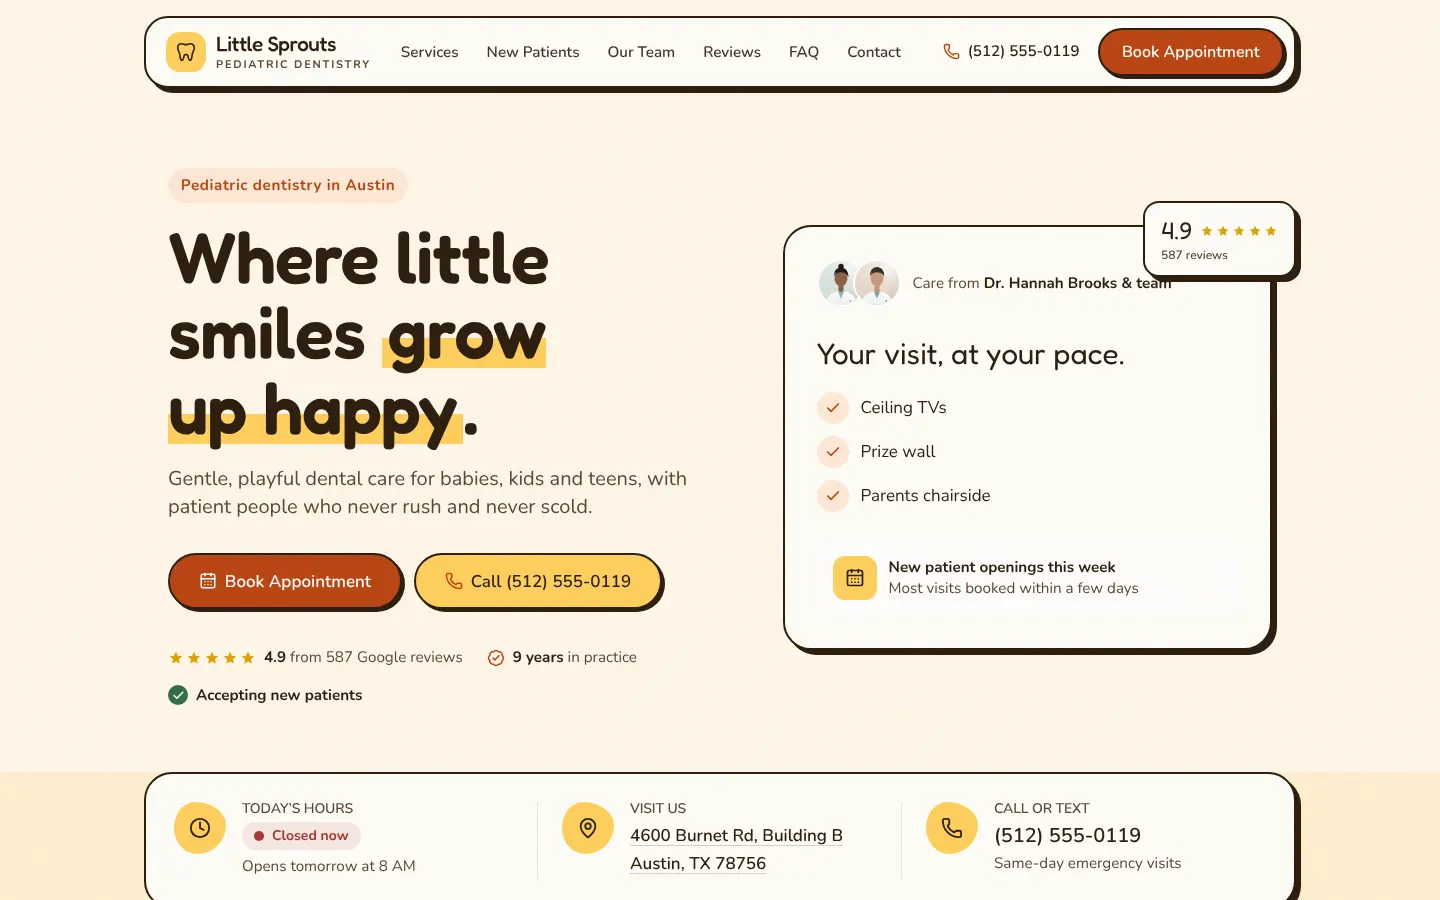
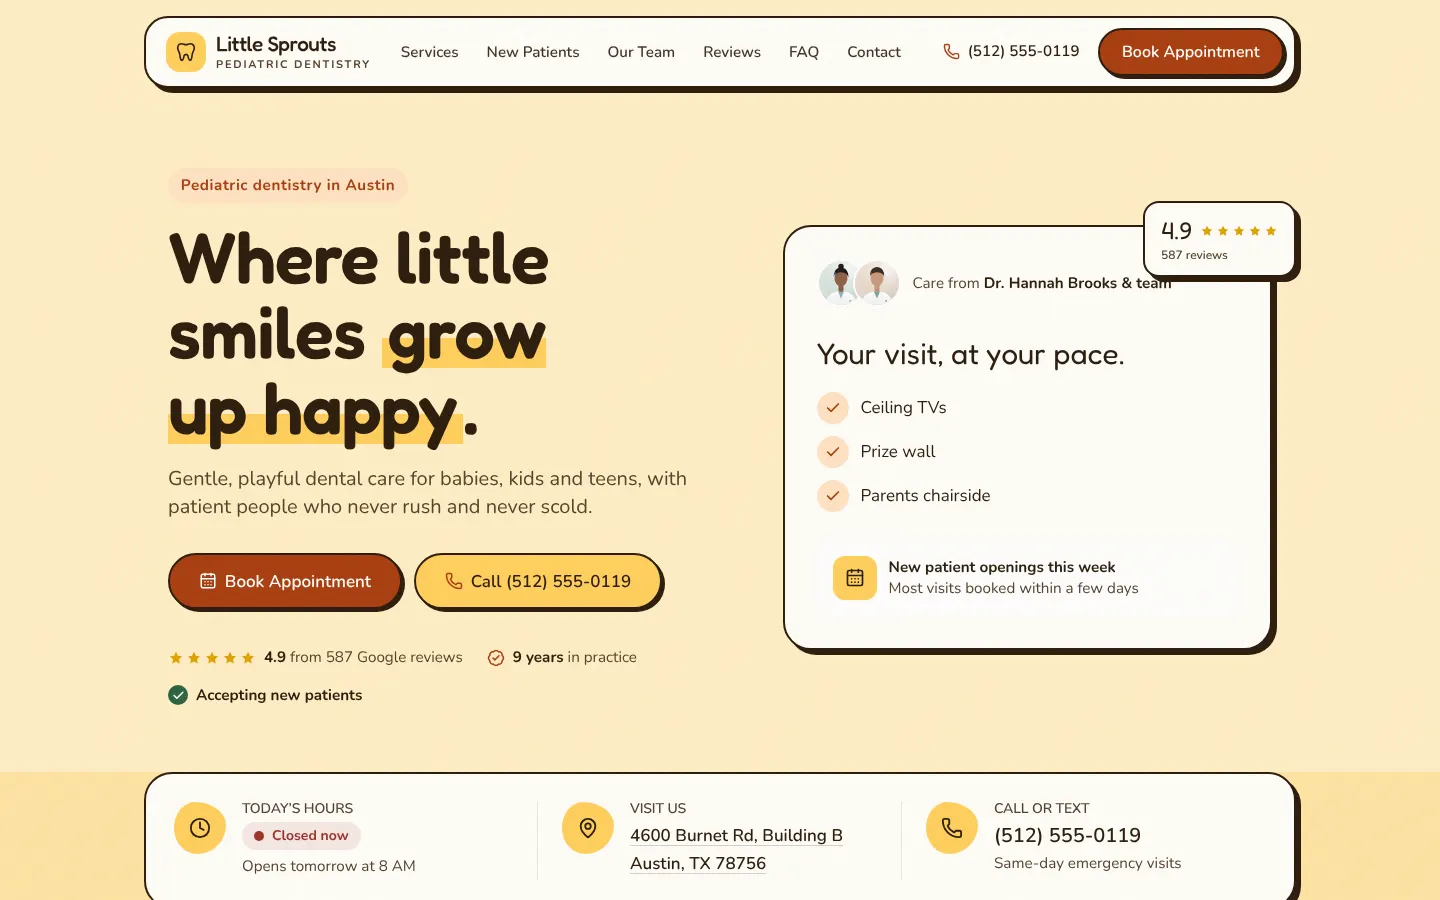
Distinct Honey and Cinnamon backgrounds; business site copy updates
- Honey moves to a deeper golden background; Cinnamon to soft sage
  paper (rust accents and handwriting kept). Both pass the contrast check
- Business site: "looks great on every screen" instead of mobile-first;
  plan lines "A website patients love", "Your website and Google, always
  improving", "Your full growth team"; closing line speaks to the dentist
- Example phones show a still first screen (no scrolling)

Claude-Session: https://claude.ai/code/session_01Dz74CLANB8ZvbaNPtyytFn

diff --git a/business-site/public/index.html b/business-site/public/index.html
@@ -113,13 +113,10 @@
   .browser .bar { display: flex; gap: 6px; padding: 10px 12px; background: var(--sand); border-bottom: 1px solid var(--line); }
   .browser .bar i { width: 10px; height: 10px; border-radius: 99px; background: #d9c9ad; }
   .browser img { display: block; width: 100%; height: auto; aspect-ratio: 16 / 10; }
-  /* Phone: an iPhone laid over the corner; the site strip scrolls inside it. */
+  /* Phone: an iPhone laid over the corner, showing the site's first screen. */
   .example .frame { position: absolute; right: 0; bottom: 0; width: 27%; aspect-ratio: 9 / 19.5; border-radius: 30px; border: 6px solid var(--ink); overflow: hidden; background: var(--ink); box-shadow: 0 30px 50px -25px rgb(43 33 24 / .6); }
   .example .frame::before { content: ""; position: absolute; top: 8px; left: 50%; translate: -50% 0; width: 34%; height: 14px; border-radius: 99px; background: var(--ink); z-index: 2; }
-  .example .frame img { position: absolute; top: 0; left: 0; width: 100%; height: auto; display: block; }
-  .example.playing .frame img { animation: reel 18s ease-in-out infinite alternate; }
-  @keyframes reel { 0%, 6% { transform: translateY(0); } 94%, 100% { transform: translateY(calc(-1 * var(--dist, 0px))); } }
-  @media (prefers-reduced-motion: reduce) { .example.playing .frame img { animation: none; } }
+  .example .frame img { display: block; width: 100%; height: 100%; object-fit: cover; object-position: top; }
   .example h3 { font-size: 1.8rem; }
   .example p { color: var(--muted); margin-top: 8px; }
   .example .open { display: inline-block; margin-top: 16px; font-weight: 700; color: var(--honey); }
@@ -221,7 +218,7 @@
       <div class="cards">
         <div class="card">
           <h3>A website that books patients</h3>
-          <p>Fast, mobile-first and accessible, with your services, team, hours and insurance up front. Online booking works with the scheduling system you already use.</p>
+          <p>Fast, accessible and looks great on every screen, with your services, team, hours and insurance up front. Online booking works with the scheduling system you already use.</p>
         </div>
         <div class="card">
           <h3>Google profile and reviews</h3>
@@ -256,21 +253,21 @@
         <a class="example" href="https://demos.butterbite.workers.dev/maple-grove/?design=butter" target="_blank" rel="noopener">
           <div class="mock">
             <div class="browser"><div class="bar" aria-hidden="true"><i></i><i></i><i></i></div><img src="/img/butter-desktop.webp" alt="Butter design on a computer, shown on Maple Grove Family Dental" width="1440" height="900" loading="lazy"></div>
-            <div class="frame"><img src="/img/butter.webp" alt="Butter design on a phone" loading="lazy"></div>
+            <div class="frame"><img src="/img/butter-top.webp" alt="Butter design on a phone" loading="lazy"></div>
           </div>
           <div><h3>Butter</h3><p>Soft and airy, with frosted glass. Shown on a family practice.</p><span class="open">Open the demo →</span></div>
         </a>
         <a class="example" href="https://demos.butterbite.workers.dev/little-sprouts/?design=honey" target="_blank" rel="noopener">
           <div class="mock">
             <div class="browser"><div class="bar" aria-hidden="true"><i></i><i></i><i></i></div><img src="/img/honey-desktop.webp" alt="Honey design on a computer, shown on Little Sprouts Pediatric Dentistry" width="1440" height="900" loading="lazy"></div>
-            <div class="frame"><img src="/img/honey.webp" alt="Honey design on a phone" loading="lazy"></div>
+            <div class="frame"><img src="/img/honey-top.webp" alt="Honey design on a phone" loading="lazy"></div>
           </div>
           <div><h3>Honey</h3><p>Warm, friendly and playful. Shown on a kids’ practice.</p><span class="open">Open the demo →</span></div>
         </a>
         <a class="example" href="https://demos.butterbite.workers.dev/lumiere/?design=cinnamon" target="_blank" rel="noopener">
           <div class="mock">
             <div class="browser"><div class="bar" aria-hidden="true"><i></i><i></i><i></i></div><img src="/img/cinnamon-desktop.webp" alt="Cinnamon design on a computer, shown on Lumière Dental Studio" width="1440" height="900" loading="lazy"></div>
-            <div class="frame"><img src="/img/cinnamon.webp" alt="Cinnamon design on a phone" loading="lazy"></div>
+            <div class="frame"><img src="/img/cinnamon-top.webp" alt="Cinnamon design on a phone" loading="lazy"></div>
           </div>
           <div><h3>Cinnamon</h3><p>Personal and handmade, with a note from the dentist. Shown on a cosmetic studio.</p><span class="open">Open the demo →</span></div>
         </a>
@@ -297,9 +294,9 @@
       <h2 id="plans-title">Three plans that grow with you</h2>
       <p class="lead">Simple pricing with a one-time setup and a flat monthly fee. We’ll walk you through it on our call.</p>
       <div class="plans">
-        <div class="card plan"><p class="tag">Essentials</p><h3>A great website</h3><ul><li>Professional website, hosting and security</li><li>Online booking link</li><li>Google-ready SEO setup</li><li>Monthly results email</li></ul></div>
-        <div class="card plan"><p class="tag">Growth</p><h3>Website plus Google</h3><ul><li>Everything in Essentials</li><li>Google profile care</li><li>Review requests</li><li>Ongoing local SEO</li></ul></div>
-        <div class="card plan"><p class="tag">Premium</p><h3>Full marketing</h3><ul><li>Everything in Growth</li><li>Fully custom design</li><li>Google Ads management</li><li>Monthly strategy call</li></ul></div>
+        <div class="card plan"><p class="tag">Essentials</p><h3>A website patients love</h3><ul><li>Professional website, hosting and security</li><li>Online booking link</li><li>Google-ready SEO setup</li><li>Monthly results email</li></ul></div>
+        <div class="card plan"><p class="tag">Growth</p><h3>Your website and Google, always improving</h3><ul><li>Everything in Essentials</li><li>Google profile care</li><li>Review requests</li><li>Ongoing local SEO</li></ul></div>
+        <div class="card plan"><p class="tag">Premium</p><h3>Your full growth team</h3><ul><li>Everything in Growth</li><li>Fully custom design</li><li>Google Ads management</li><li>Monthly strategy call</li></ul></div>
       </div>
     </div>
   </section>
@@ -320,7 +317,7 @@
   <section class="dark cta" id="contact" aria-labelledby="contact-title">
     <div class="wrap">
       <p class="eyebrow">Get started</p>
-      <h2 id="contact-title">Websites you can sink your teeth into.</h2>
+      <h2 id="contact-title">Let’s build a website your patients can sink their teeth into.</h2>
       <p class="lead" style="color: var(--on-dark)">Book a free 20-minute call. We’ll show you a demo built for your practice.</p>
       <div class="actions">
         <a class="btn btn-primary" style="background: var(--honey-light); color: var(--ink)" href="#contact">Book a free call</a>
@@ -337,32 +334,13 @@
   </div>
 </footer>
 <script>
-  // Example phones: scroll the site strip on hover/focus, or while in view on touch screens.
+  // On a branch preview (<branch>-butterbite-site.<sub>.workers.dev), open that branch's demos preview,
+  // so unmerged designs show; the live site keeps the live demo links.
   (function () {
-    var examples = document.querySelectorAll(".example");
-    function measure(ex) {
-      var img = ex.querySelector(".frame img"), frame = ex.querySelector(".frame");
-      ex.style.setProperty("--dist", Math.max(0, img.offsetHeight - frame.clientHeight) + "px");
-    }
-    examples.forEach(function (ex) {
-      var img = ex.querySelector(".frame img");
-      if (img.complete) measure(ex); else img.addEventListener("load", function () { measure(ex); });
-      ex.addEventListener("mouseenter", function () { measure(ex); ex.classList.add("playing"); });
-      ex.addEventListener("mouseleave", function () { ex.classList.remove("playing"); });
-      ex.addEventListener("focus", function () { ex.classList.add("playing"); });
-      ex.addEventListener("blur", function () { ex.classList.remove("playing"); });
-    });
-    window.addEventListener("resize", function () { examples.forEach(measure); });
-    // On a branch preview (<branch>-butterbite-site.<sub>.workers.dev), open that branch's demos preview,
-    // so unmerged designs show; the live site keeps the live demo links.
     var m = location.hostname.match(/^(.+)-butterbite-site\.(.+\.workers\.dev)$/);
-    if (m) examples.forEach(function (ex) { ex.href = ex.href.replace("demos.butterbite.workers.dev", m[1] + "-demos." + m[2]); });
-    if (window.matchMedia("(hover: none)").matches && "IntersectionObserver" in window) {
-      var io = new IntersectionObserver(function (entries) {
-        entries.forEach(function (e) { if (e.isIntersecting) measure(e.target); e.target.classList.toggle("playing", e.isIntersecting); });
-      }, { threshold: 0.6 });
-      examples.forEach(function (ex) { io.observe(ex); });
-    }
+    if (m) document.querySelectorAll(".example").forEach(function (ex) {
+      ex.href = ex.href.replace("demos.butterbite.workers.dev", m[1] + "-demos." + m[2]);
+    });
   })();
 </script>
 </body>

diff --git a/config/designs.ts b/config/designs.ts
@@ -3,9 +3,9 @@
  * Applied as <html data-design="...">; the look itself lives in app/designs.css.
  *
  *   butter    soft, airy, frosted glass (the original). Colours come from the theme preset.
- *   honey     warm and friendly: rounded type, solid colour blocks, grain, sticker shadows
+ *   honey     warm and friendly: golden background, rounded type, solid colour blocks, grain, sticker shadows
  *   peach     sunrise: peach-to-lilac light, arch frames, graceful light serif
- *   cinnamon  scrapbook: tilted taped cards, polaroid photos, handwritten notes from the dentist
+ *   cinnamon  scrapbook on soft sage paper: tilted taped cards, polaroid photos, handwritten notes from the dentist
  *
  * Every design except butter brings its own colours (below), checked by `npm run check:contrast`.
  * An office picks one with `design`; sales demos preview any of them with ?design=honey.
@@ -26,19 +26,19 @@ export const designLabels: Record<Design, { label: string; feel: string }> = {
 export const designPalettes: Record<Exclude<Design, "butter">, ThemeTokens> = {
   honey: {
     label: "Honey",
-    bg: "#fff7e8",
-    bg2: "#ffefcf",
-    bg3: "#fff3dc",
+    bg: "#ffeec4",
+    bg2: "#ffe3a3",
+    bg3: "#ffe9b5",
     orb1: "#ffd36b",
     orb2: "#ffb48a",
     orb3: "#bfe3d6",
     ink: "#2a1a0a",
-    muted: "#5a4430",
-    accent: "#b9420f",
-    accent2: "#8f320b",
-    accentSoft: "#ffe9d6",
-    success: "#2f6b45",
-    danger: "#a3352b",
+    muted: "#55402b",
+    accent: "#a83c0d",
+    accent2: "#842f0a",
+    accentSoft: "#ffe2c2",
+    success: "#2a6340",
+    danger: "#9c3127",
   },
   peach: {
     label: "Peach",
@@ -58,19 +58,19 @@ export const designPalettes: Record<Exclude<Design, "butter">, ThemeTokens> = {
   },
   cinnamon: {
     label: "Cinnamon",
-    bg: "#fbf3e6",
-    bg2: "#f6e8d3",
-    bg3: "#f8eedf",
+    bg: "#eef1e5",
+    bg2: "#e2e8d5",
+    bg3: "#e8ecdd",
     orb1: "#e9b949",
     orb2: "#b9c7a9",
     orb3: "#f2c4a7",
-    ink: "#33201a",
-    muted: "#64483b",
-    accent: "#a3441e",
-    accent2: "#7f3315",
-    accentSoft: "#f8e2d2",
-    success: "#2f6b45",
-    danger: "#a3352b",
+    ink: "#2f2219",
+    muted: "#55473a",
+    accent: "#9c401b",
+    accent2: "#7a3214",
+    accentSoft: "#f6e1d2",
+    success: "#2a6340",
+    danger: "#9c3127",
   },
 };
 

diff --git a/business-site/README.md b/business-site/README.md
@@ -6,7 +6,7 @@ Our own marketing site (working name "Butterbite"). Plain static files in `publi
 
 **Before launch:** set the real name and domain, add the booking link (free Cal.com account) and email in the contact section, and remove `noindex` from `public/index.html` and the `Disallow` from `public/robots.txt`.
 
-Example-site screenshots in `public/img/` show each design (Butter, Honey, Cinnamon) on a fictional demo practice. Regenerate them with the clean-screenshot tool, then the link preview image:
+Example-site screenshots in `public/img/` show each design (Butter, Honey, Cinnamon) on a fictional demo practice: a desktop screen (`*-desktop.webp`) with a phone screen (`*-top.webp`) over it. Regenerate them with the clean-screenshot tool (it also writes a tall `*.webp` strip, which this site doesn't use; delete those), then the link preview image:
 
 ```
 node scripts/shots.mjs business-site/public/img butter="https://demos.butterbite.workers.dev/maple-grove/?design=butter" honey="https://demos.butterbite.workers.dev/little-sprouts/?design=honey" cinnamon="https://demos.butterbite.workers.dev/lumiere/?design=cinnamon"
